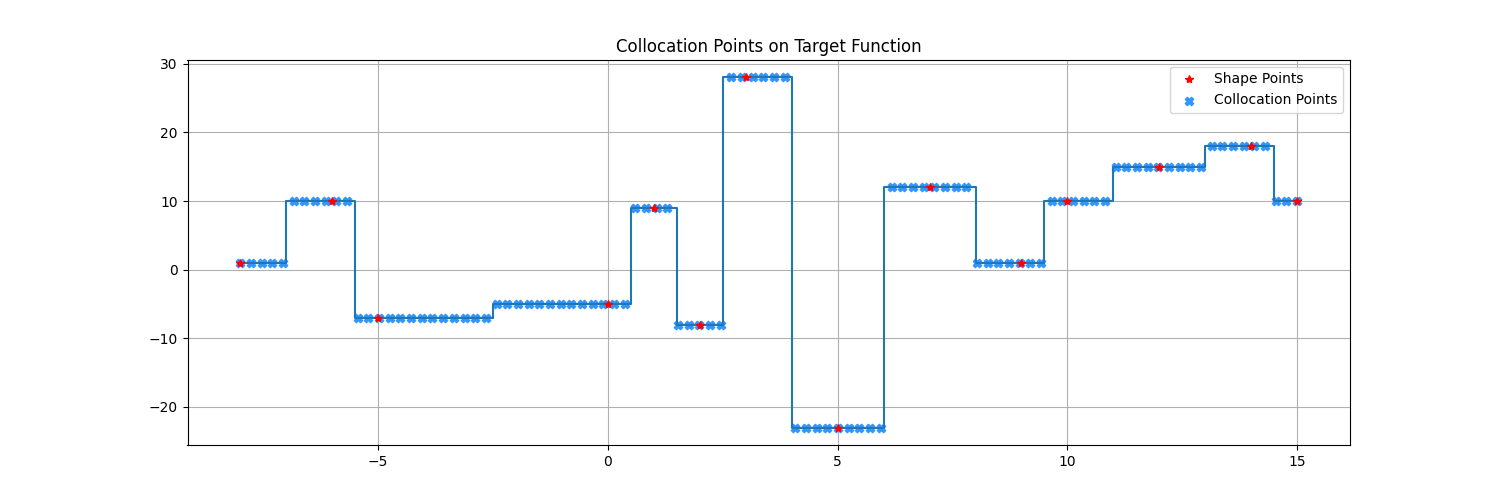
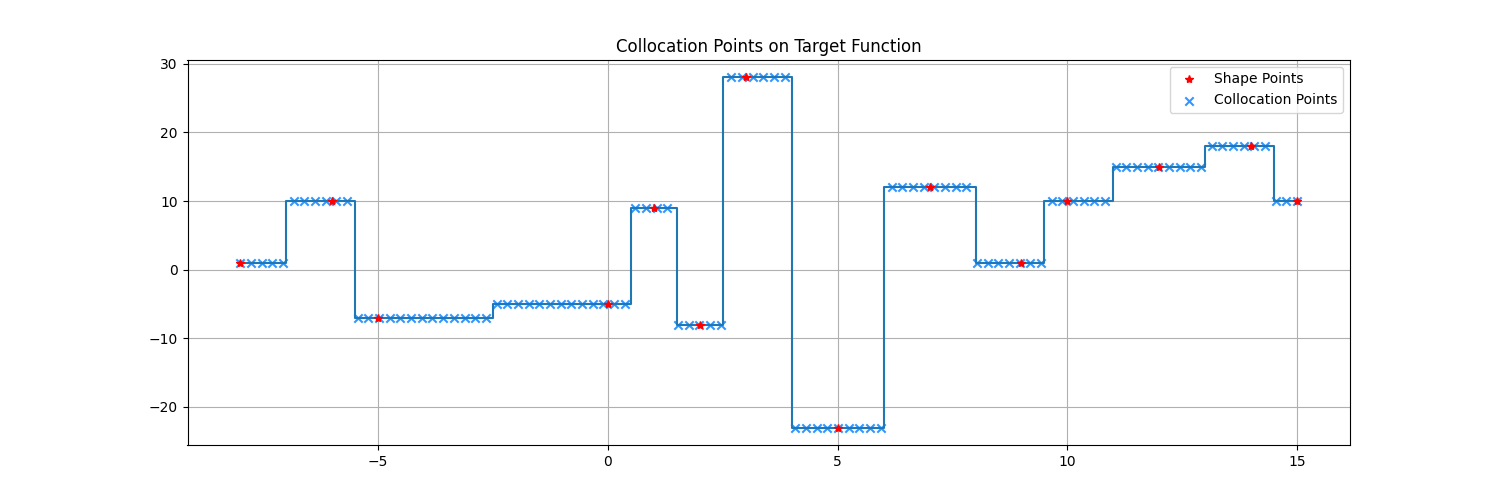
Modification

diff --git a/Collocation_pts.py b/Collocation_pts.py
@@ -39,6 +39,6 @@ plt.step(x,y,'r*',where = 'mid', label = 'Shape Points')
 #plt.plot(x_tilde_pts,z ,color='b',marker='x')
 plt.grid()
 plt.title('Collocation Points on Target Function')
-plt.scatter(x_tilde_pts,y_new,c='#3396FF',marker='X',label='Collocation Points')
+plt.scatter(x_tilde_pts,y_new,c='#3396FF',marker='x',label='Collocation Points')
 plt.legend()
 plt.show()

diff --git a/tempCodeRunnerFile.py b/tempCodeRunnerFile.py
@@ -1,0 +1,1 @@
+Collocation Points on Target Function
